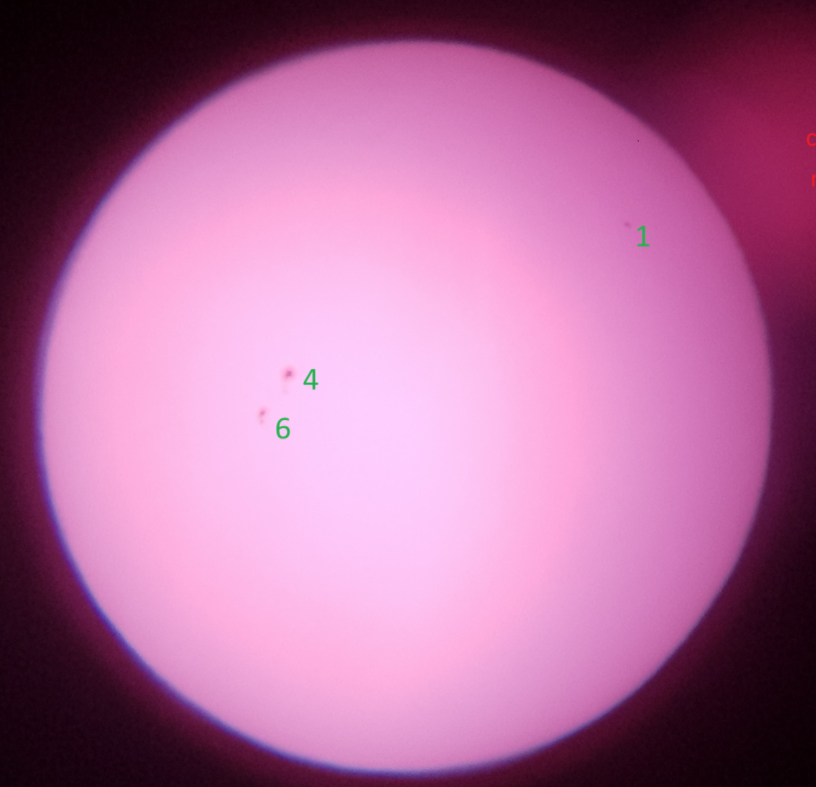
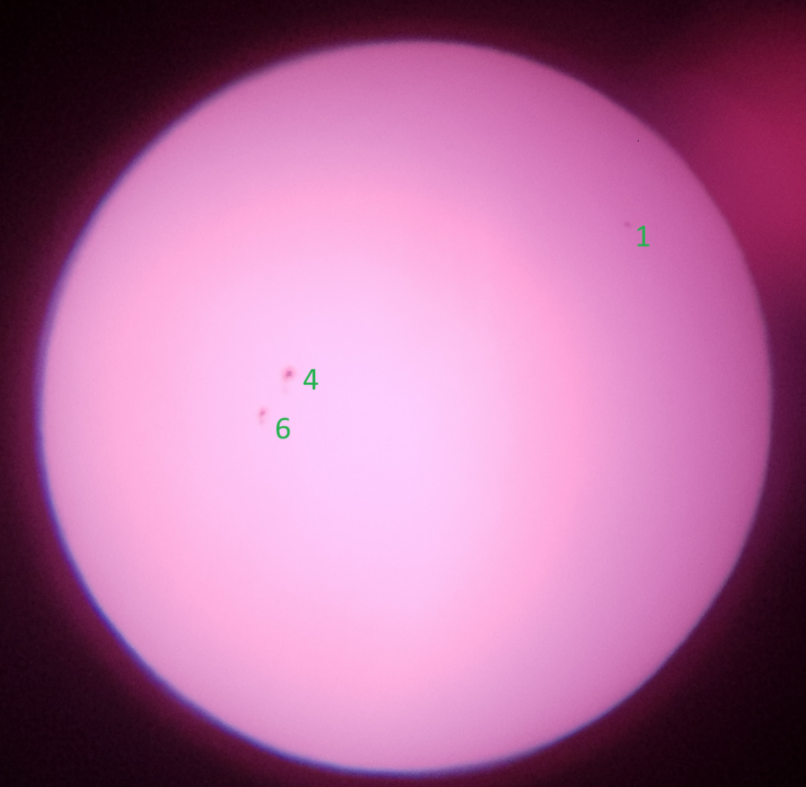
Gestor: 3 decimales tambien en columnas guardadas como texto; mensaje solo lectura; periodo 25,5
- Redondea a 3 decimales tambien las columnas numericas guardadas como texto
  (alfa_sol, h_sol, az_sol, lambda_sol, declinacion_sol) en Observaciones y Mediciones.
- Mensaje del modo Lydia: "no se pueden editar (solo lectura)".
- Resultado final: periodo "25,5 +- 0,5 d".
- README: explicacion mas completa de calculo_principal; periodo 25,5 +- 0,5 dias.
- Actualizadas las fotos de fotos_con_nºmanchas.

diff --git a/gestor_web/gestor_web.py b/gestor_web/gestor_web.py
@@ -105,8 +105,8 @@ RUTA_BD = _preparar_bd(_MODO)
 _SOLO_LECTURA = _MODO.startswith("Ver")   # en modo "ver Lydia" no se puede editar
 
 if _MODO.startswith("Ver"):
-    st.sidebar.info("Estas viendo los datos reales de Lydia Tomás Sanz. Trabajas sobre "
-                    "una copia temporal, asi que el original no se toca.")
+    st.sidebar.info("Estas viendo los datos reales de Lydia Tomás Sanz: no se pueden "
+                    "editar (solo lectura).")
 else:
     st.sidebar.success("Base de datos nueva y vacia. Mete tus observaciones y "
                         "manchas, y ve a la pestana 'Resultados Calculados' para "
@@ -268,7 +268,11 @@ with tab1:
     # OCULTAMOS hora_sideral del editor (sigue en la BD, solo no se muestra)
     columnas_eliminar = [c for c in ['P_angulo', 'B0_latitud', 'id_observacion', 'hora_sideral']
                          if c in df_obs.columns]
-    df_obs_display = df_obs.drop(columns=columnas_eliminar).round(3)
+    df_obs_display = df_obs.drop(columns=columnas_eliminar)
+    for _c in df_obs_display.columns:           # redondea a 3 dec. (tambien las guardadas como texto)
+        _num = pd.to_numeric(df_obs_display[_c], errors="coerce")
+        if df_obs_display[_c].notna().sum() and _num.notna().sum() == df_obs_display[_c].notna().sum():
+            df_obs_display[_c] = _num.round(3)
     cfg_obs = {
         "fecha_hora":     "Fecha (DD/MM/AAAA HH:MM)",
         "archivo_img":    "Nombre de Foto (ID)",
@@ -420,7 +424,11 @@ with tab2:
         df_med = df_med.sort_values(sort_cols, kind='mergesort',
                                     na_position='last').reset_index(drop=True)
         df_med = df_med.drop(columns=['_dt_orden'])
-    df_med_display = df_med.drop(columns=['id_medicion', 'id_observacion']).round(3)
+    df_med_display = df_med.drop(columns=['id_medicion', 'id_observacion'])
+    for _c in df_med_display.columns:
+        _num = pd.to_numeric(df_med_display[_c], errors="coerce")
+        if df_med_display[_c].notna().sum() and _num.notna().sum() == df_med_display[_c].notna().sum():
+            df_med_display[_c] = _num.round(3)
     cfg_med = {
         "fecha_hora":   st.column_config.TextColumn("Fecha y Hora", disabled=True),
         "id_grupo":     "ID Mancha",
@@ -881,7 +889,7 @@ with tab7:
     c1, c2, c3, c4 = st.columns(4)
     c1.metric("A  (°/día)", "+14,10 ± 0,28")
     c2.metric("B  (°/día)", "-2,21 ± 2,47")
-    c3.metric("Periodo (sidéreo)", "≈ 25 días")
+    c3.metric("Periodo (sidéreo)", "25,5 ± 0,5 d")
     c4.metric("χ² reducido", "≈ 0,94")
 
     # Grafica interactiva (la misma que abre el "modo i" del codigo principal):

diff --git a/README.md b/README.md
@@ -81,10 +81,16 @@ La aplicación incluye además tres herramientas interactivas:
 
 ## 3. Código de cálculo — `codigo_calculo/`
 
-- **`calculo_principal.py`** — núcleo del trabajo: transformación píxel →
-  coordenadas heliográficas (ángulo µ, corrección óptica β_opt, proyección
-  ortográfica inversa y triángulo del polo solar) y ajuste de la rotación
-  diferencial. Su «modo i» abre directamente la aplicación.
+- **`calculo_principal.py`** — el programa principal del trabajo: un conversor
+  astronómico interactivo. A partir de la posición de una mancha en la foto (su
+  píxel) obtiene sus **coordenadas heliográficas** (Φ, Λ) encadenando, en este
+  orden: el ángulo **µ** (orienta la foto hacia el polo de la eclíptica π), la
+  **corrección óptica β_opt** del telescopio, la **proyección ortográfica
+  inversa** (del plano de la foto a la esfera) y el **triángulo del polo solar**
+  (que la lleva al eje de rotación del Sol). Incluye además las conversiones
+  entre coordenadas (horizontales, ecuatoriales y eclípticas), el cálculo del
+  **periodo** de cada mancha y el **ajuste de la rotación diferencial**
+  ω(Φ) = A + B·sin²Φ. Su «modo i» abre la aplicación web.
 - **`calculo_coeficientes_AB.py`** — calcula los coeficientes A y B del ajuste de
   la rotación (con todos los datos y sin la toma del 22 por la mañana).
 - **`gen_tablas.py`** — genera las tablas en LaTeX a partir de la base de datos.
@@ -110,8 +116,8 @@ Ajustando ω(Φ) = A + B·sin²Φ a las 27 manchas seguidas:
 
 El coeficiente **B < 0** confirma la rotación diferencial, el ecuador gira más
 rápido que los polos, lo que descarta el giro rígido. El periodo ecuatorial
-resulta de unos **25 días sidéreos**, en buen acuerdo con los valores clásicos de
-Carrington y Faye.
+resulta de **25,5 ± 0,5 días sidéreos**, en buen acuerdo con los valores clásicos
+de Carrington y Faye.
 
 ---
 
